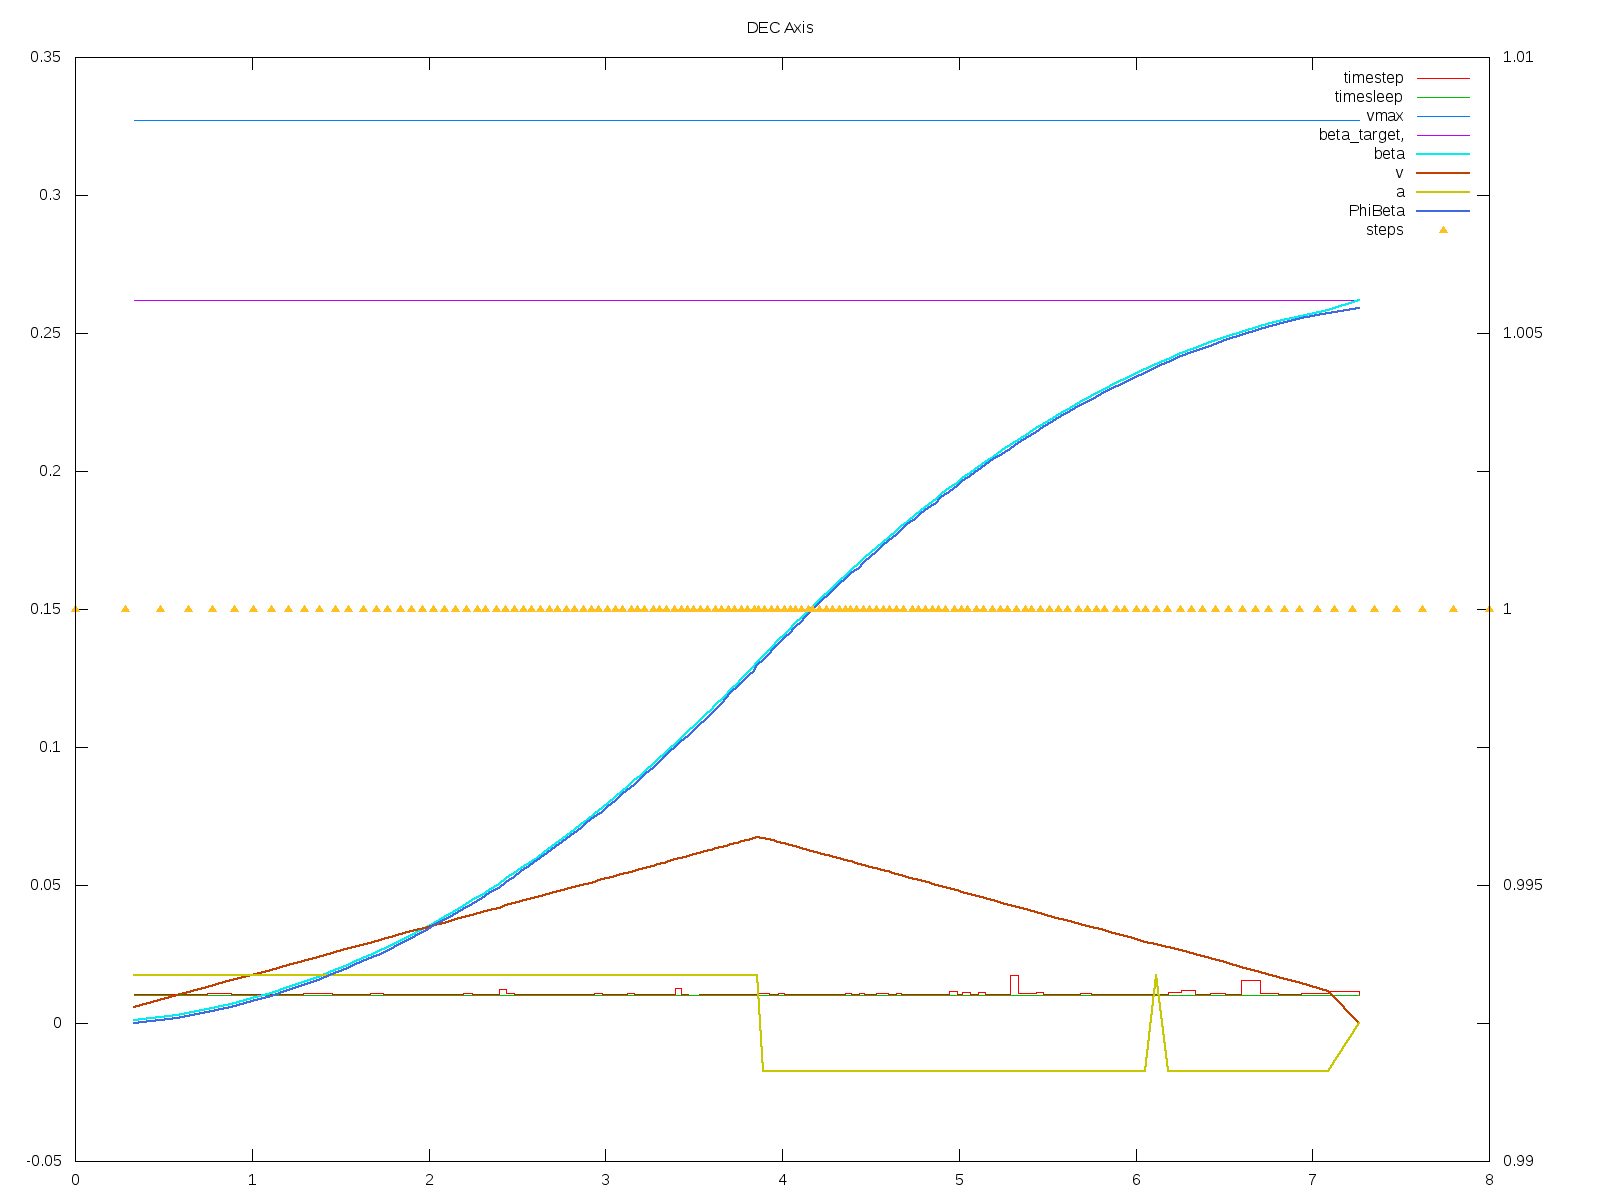
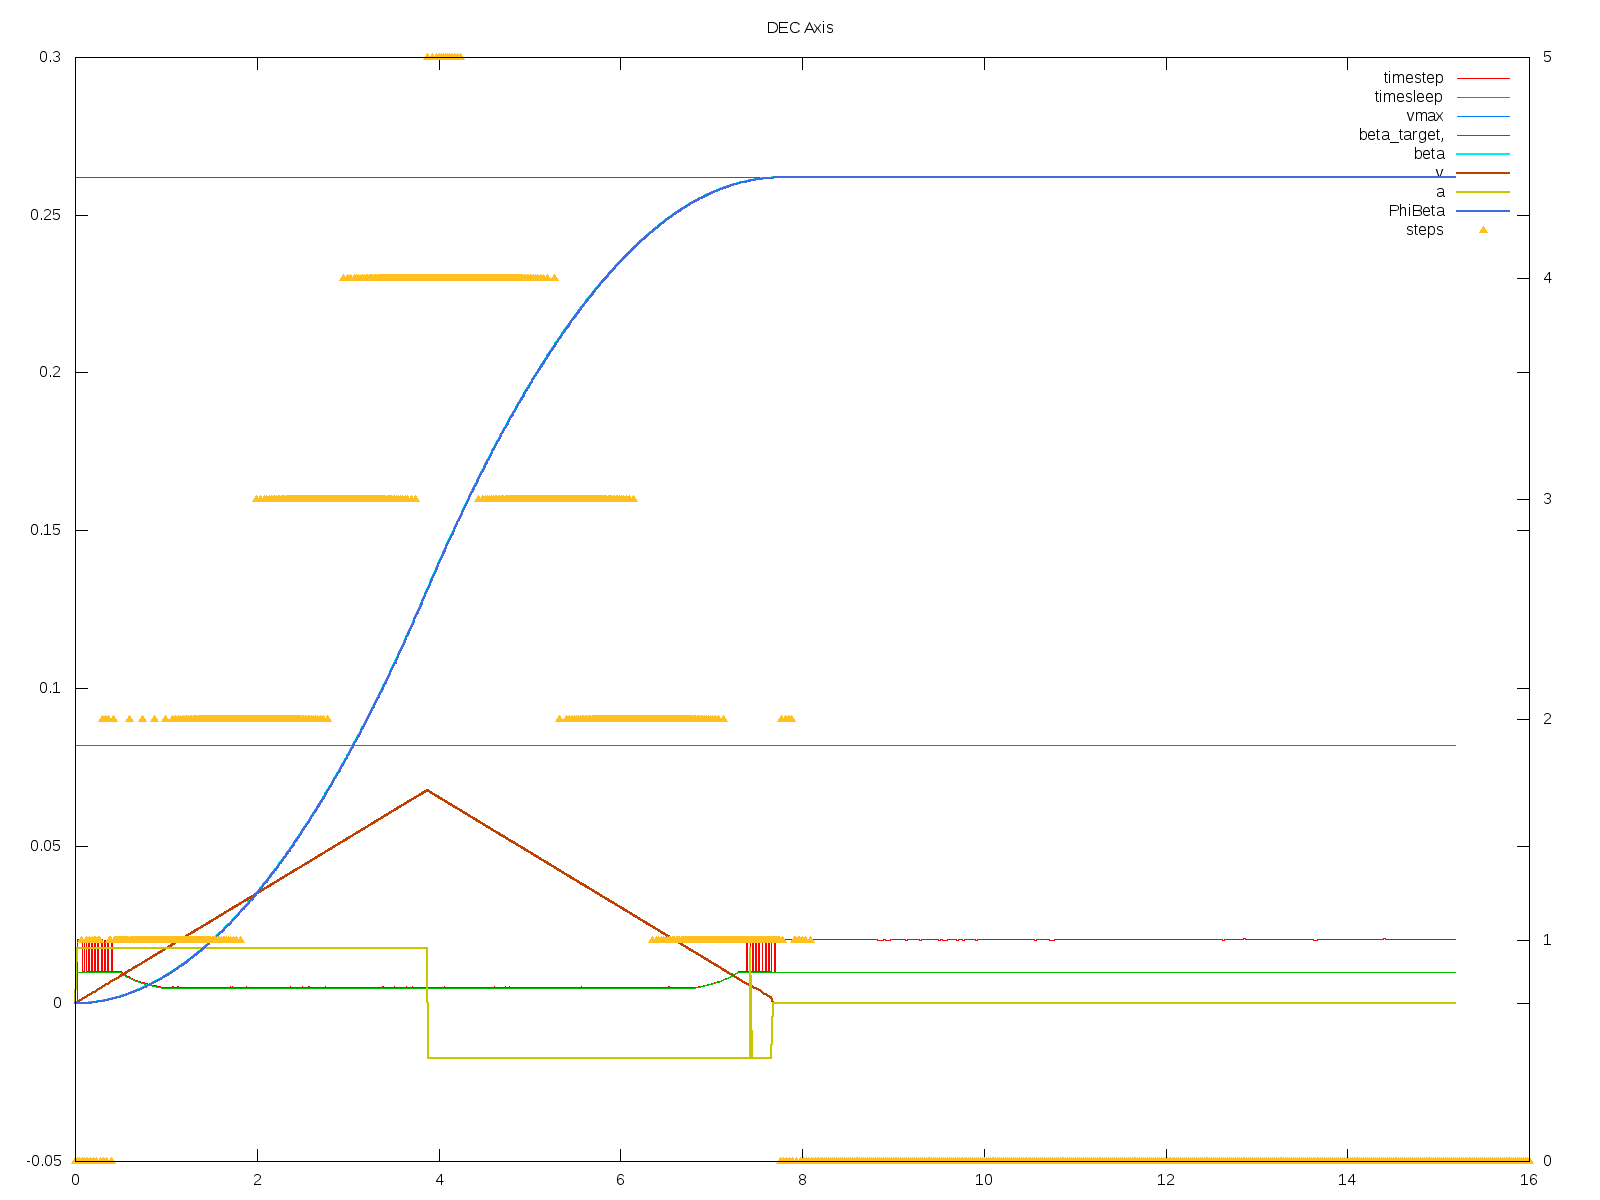
PWM try. Losse a lot of pulses

diff --git a/ramps.py b/ramps.py
@@ -5,11 +5,9 @@ import time,datetime
 import threading
 import ephem
 
-raspi=True
 
-if raspi:
-	import pigpio
-	pi=pigpio.pi('cronostamper')
+#lock
+
 
 #Decorator to run some functions in threads
 def threaded(fn):
@@ -31,7 +29,6 @@ class axis(object):
 		self.a=0
 		self.vmax=float(v)
 		self.beta=0
-		self.PhiBeta=0
 		self.v=0
 		self.beta_target=0
 		self.t2target=0
@@ -111,6 +108,7 @@ class axis(object):
 			
 			self.doSteps(steps)
 			self.T=now
+			time.sleep(self.timesleep)
 
 	def tracktick(self):
 		steps=self.vtracking*self.timestep
@@ -201,14 +199,16 @@ class axis(object):
 			self.timesleep,self._vmax,self.beta_target,self.beta,self.v,self.a,PhiBeta,steps)
 		self.logfile.write(line)
 
-#Stepper implementation
+#Stepper raspberry implementation
 class AxisDriver(axis):
 	def __init__(self,a,v,pointError,PIN,DIR_PIN):
 		super(AxisDriver, self).__init__(a,v,pointError)
+		import pigpio
+		self.pi=pigpio.pi('cronostamper')
 		self.PIN=PIN
 		self.DIR_PIN=DIR_PIN
-		cb1 = pi.callback(self.PIN, pigpio.RISING_EDGE, self.stepCounter)
-		self.stepsPerRevolution=200*16*1	#Motor:steps*microsteps*gearbox
+		cb1 = self.pi.callback(self.PIN, pigpio.FALLING_EDGE, self.stepCounter)
+		self.stepsPerRevolution=200*16*24	#Motor:steps*microsteps*gearbox
 		self.corona=500
 		self.plate=500
 		self.FullTurnSteps=self.plate*self.stepsPerRevolution/self.corona
@@ -221,6 +221,14 @@ class AxisDriver(axis):
 		self.vmax=self.MinPhiStep/self.pulseWidth
 		self._vmax=self.vmax
 		self.pointError=self.MinPhiStep
+		self.stepTarget=0
+		self.PhiBeta=0
+		self.dire=1
+		self.pi.write(self.DIR_PIN, self.dire>0)
+	  	self.pi.set_PWM_dutycycle(self.PIN, 0)
+		self.discarted=0
+		self.lock = threading.Lock()
+		self.stepQueue()
 		#self.acceleration=self.vmax/10.
 		print "StepsPerRev",self.stepsPerRevolution \
 			,"FullTurnSteps: ",self.FullTurnSteps \
@@ -239,70 +247,80 @@ class AxisDriver(axis):
 		#acumultate the fractional part to the next step
 		self.stepsRest=steps-Isteps
 
-		#calculate direction of motion
-		if Isteps<0:
-			dire=-1
-		else:
-			dire=1
-		pi.write(self.DIR_PIN, dire>0)
-
-		Isteps=int(abs(Isteps))
-
-		if Isteps==0:
-			pulseLasting=0
-			time.sleep(self.timesleep)
-			return		
-		else:
-			pulseLasting=self.timesleep/float(Isteps)
-
-		#Check if there is enought time to do the pulse and
-		#delay the pulses than have not room to the next cycle
-		if pulseLasting-self.pulseWidth <0:
-			Lsteps=int(self.timesleep/self.pulseWidth)
-			self.stepsRest=self.stepsRest+(Isteps-Lsteps)*dire
-			print self.name,time.time()-self.T0,"\tProcastinating steps. \tORG:" ,Isteps,"\tDOING:",Lsteps,"\tPENDING:",Isteps-Lsteps,
-			Isteps=Lsteps
-			if Isteps==0:
-				pulseLasting=0
-				time.sleep(self.timesleep)
-				return		
-			else:
-				pulseLasting=self.timesleep/float(Isteps)
-				print "pulse:",self.timestep,self.timesleep,self.timestep-self.timesleep
-
-
-
 		if self.debug:
 			PhiBeta=float(self.PhiBeta)*self.MinPhiStep
-			self.saveDebug(Isteps*dire,PhiBeta)
+			self.saveDebug(Isteps,PhiBeta)
 
 
-		for p in range(Isteps):
-		   if raspi:
-			t1 = pi.get_current_tick()
-			#Takes to much time!!! TODO: alternate method
-			pi.write(self.PIN, 1)
-			t2 = pi.get_current_tick()
-			x=float(pigpio.tickDiff(t1,t2))/1000000.
-			lasting=self.pulseWidth*self.pulseDuty-x		
-			if lasting >0:
-				time.sleep(lasting)
-			pi.write(self.PIN, 0)
-			t2 = pi.get_current_tick()
-			x=float(pigpio.tickDiff(t1,t2))/1000000.
-			lasting=pulseLasting-x
-			if lasting >0:
-				time.sleep(lasting)
+		if Isteps==0:
+			time.sleep(self.timesleep)
+			return		
+
+
+		#calculate direction of motion
+		if self.dire*Isteps<0:
+			self.dire=math.copysign(1,Isteps)
+			self.pi.write(self.DIR_PIN, self.dire>0)
+
+
+
+		self.stepTarget=self.stepTarget+Isteps
+
 
 	def stepCounter(self,gpio, level, tick):
-		dire=pi.read(self.DIR_PIN)
+		dire=self.pi.read(self.DIR_PIN)
 		if dire==1:
 			dire=1
 		else:
 			dire=-1
+
+
+		if self.discartFlag:
+			self.discarted=self.discarted+1*dire
+			print ephem.degrees(self.discarted*self.MinPhiStep),self.discarted,self.PhiBeta
+			#print self.name,self.PhiBeta,self.stepTarget,abs(self.stepTarget-self.PhiBeta)
+			return
+
+
 		self.PhiBeta=self.PhiBeta+1*dire
+		#print self.name,self.PhiBeta,self.stepTarget,abs(self.stepTarget-self.PhiBeta)
+		if abs(self.stepTarget-self.PhiBeta) == 0:
+	 	   with self.lock:
+			self.discartFlag=True
+		  	self.pi.set_PWM_dutycycle(self.PIN, 0)
+			#self.pi.write(self.PIN, 0)
+			#print self.name,self.PhiBeta,self.stepTarget,abs(self.stepTarget-self.PhiBeta)
+			#print "Stop PWM"
 
 
+	@threaded
+	def stepQueueK(self):
+	  #print self.PhiBeta,self.stepTarget
+	  while not self.kill:
+	     with self.lock:
+		if abs(self.stepTarget-self.PhiBeta) != 0:
+		        #print self.name,self.PhiBeta,self.stepTarget
+			self.discartFlag=False
+			self.pi.write(self.PIN, 1)
+			time.sleep(self.pulseWidth*self.pulseDuty)
+			self.pi.write(self.PIN, 0)
+			time.sleep(self.pulseWidth*(1.-self.pulseDuty))
+	  print "STEPS QUEUE END"
+	  time.sleep(0.1)		
+
+
+	@threaded
+	def stepQueue(self):
+	  self.pi.set_PWM_frequency(self.PIN,1/self.pulseWidth)
+ 	  while not self.kill:
+		with self.lock:
+		   if abs(self.stepTarget-self.PhiBeta) != 0:
+			self.pi.set_PWM_dutycycle(self.PIN, int(self.pulseDuty*255))
+			self.discartFlag=False
+		time.sleep(self.pulseWidth)
+	  print "STEPS QUEUE END"
+	  self.pi.set_PWM_dutycycle(self.PIN, 0)
+	  time.sleep(self.pulseWidth)
 
 class mount:
 	def __init__(self,a,v,pointError):
@@ -378,13 +396,13 @@ if __name__ == '__main__':
 	e=ephem.degrees('00:00:01')
 	m=mount(a,v,e)
 	m.trackSpeed(e,0)
-	RA=ephem.hours('06:00:00')
+	RA=ephem.hours('01:00:00')
 	DEC=ephem.degrees('15:00:00')
 	m.slew(RA,DEC)
 	t=0
 	while t<15:
-		t=t+m.axis1.timestep*2
-		time.sleep(m.axis1.timestep*2)
+		t=t+m.axis1.timestep
+		time.sleep(m.axis1.timestep)
 		#m.coords()
 	m.end()
 	exit(0)
